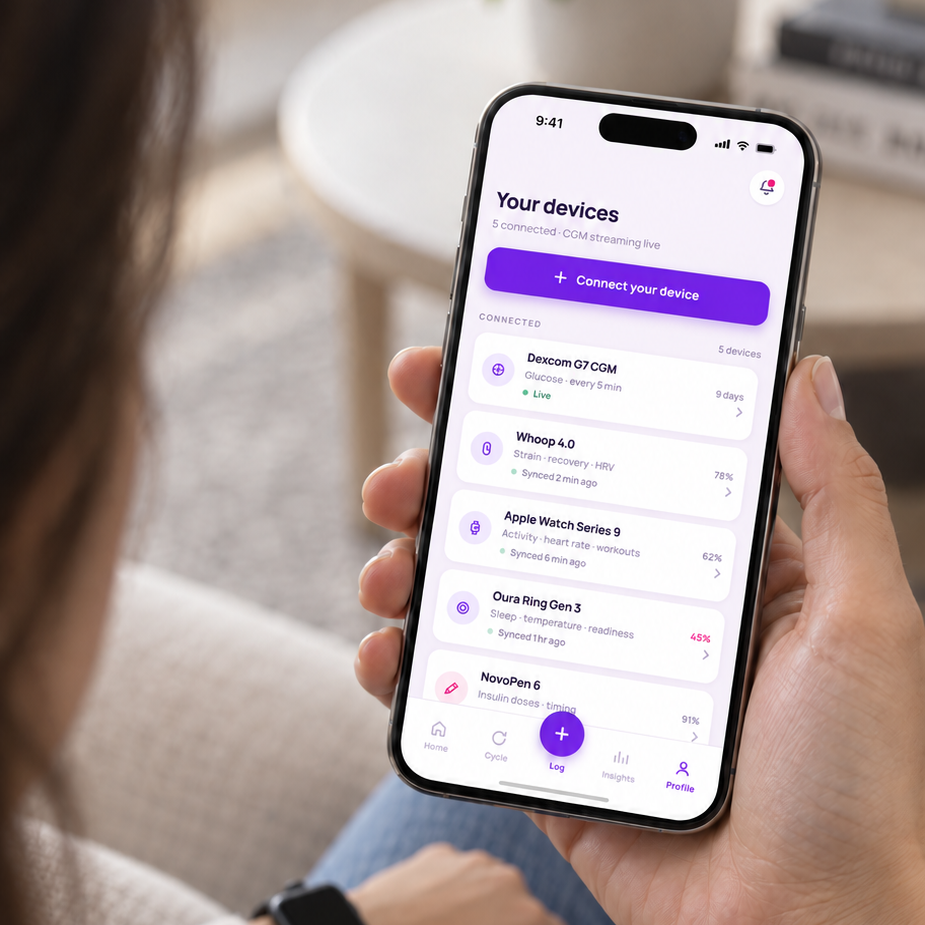
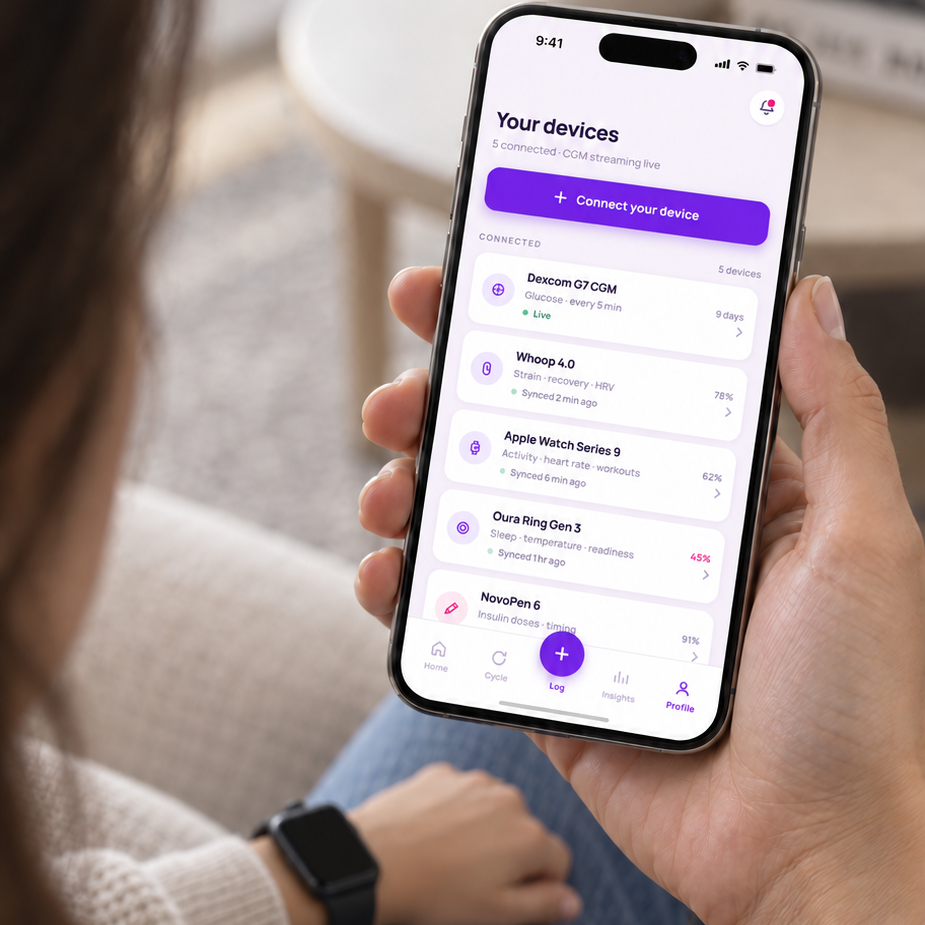
Adjust MyAlly hero crops, tighten spacing, animate phone screens
- Re-cropped the desktop square (still shows the Apple Watch on the
  wrist in the bottom corner) and shortened the mobile portrait crop
  by trimming the excess lap/leg space at the bottom (1701px -> 1240px).
- Split the hero/next-section padding so the gap before "See what
  MyAlly shows you, every day" is much tighter (was ~21vh, now ~10vh).
- Extracted the phone-mockup section into components/MyAllyScreens.tsx
  (a client component, since page.tsx exports metadata and can't itself
  be "use client") with an IntersectionObserver-driven reveal: the three
  screens alternate sliding in from the left and right as the section
  scrolls into view, on both the mobile stack and the desktop fan.

diff --git a/app/app/page.tsx b/app/app/page.tsx
@@ -1,6 +1,6 @@
 import type { Metadata } from "next";
 import Image from "next/image";
-import PhoneMockup from "@/components/PhoneMockup";
+import MyAllyScreens from "@/components/MyAllyScreens";
 
 const basePath = process.env.NEXT_PUBLIC_BASE_PATH || "";
 
@@ -10,20 +10,10 @@ export const metadata: Metadata = {
     "MyAlly brings your glucose, activity, wearables, labs, food and medications into one connected picture, so you can see how they relate and what to do next.",
 };
 
-const screens = [
-  { src: "/mockups/seer-cycle-insights.png", label: "Cycle Insights" },
-  { src: "/mockups/seer-cycle-home.png", label: "Cycle-aware home screen" },
-  { src: "/mockups/seer-todays-guidance.png", label: "Today's guidance" },
-];
-
-// Mobile stacks these in a different order than the desktop fan (which
-// features the home screen front and center): home, insights, guidance.
-const mobileScreens = [screens[1], screens[0], screens[2]];
-
 export default function MyAllyPage() {
   return (
     <main>
-      <section className="px-[8vw] pt-[18vh] pb-[9vh]">
+      <section className="px-[8vw] pt-[18vh] pb-[5vh]">
         <div className="mx-auto grid max-w-[1200px] items-center gap-14 lg:grid-cols-[1.1fr_0.9fr]">
           <div>
             <h1 className="max-w-[22ch] font-display text-[clamp(2.2rem,4.8vw,3.4rem)] font-medium leading-[1.12] tracking-[-0.01em] text-ink">
@@ -45,50 +35,26 @@ export default function MyAllyPage() {
               className="hidden h-auto w-full rounded-2xl lg:block"
               priority
             />
-            {/* Mobile: original portrait crop, stacked below the text */}
+            {/* Mobile: shortened portrait crop, stacked below the text */}
             <Image
               src={`${basePath}/app/connected-devices.png`}
               alt="MyAlly's Your devices screen, showing a Dexcom G7, Whoop, Apple Watch, Oura Ring and NovoPen all connected"
               width={925}
-              height={1701}
+              height={1240}
               className="h-auto w-full rounded-2xl lg:hidden"
             />
           </div>
         </div>
       </section>
 
-      <section className="overflow-hidden bg-paper px-[8vw] py-[12vh]">
+      <section className="overflow-hidden bg-paper px-[8vw] pt-[5vh] pb-[12vh]">
         <div className="mx-auto mb-[6vh] max-w-[560px] text-center">
           <h2 className="font-display text-[clamp(1.4rem,2.4vw,1.9rem)] font-medium leading-[1.3] tracking-[-0.01em] text-ink">
             See what MyAlly shows you, every day
           </h2>
         </div>
 
-        {/* Mobile: stacked, full-size phones — the fan below gets too narrow to render legibly */}
-        <div className="mx-auto flex max-w-[260px] flex-col items-center gap-10 md:hidden">
-          {mobileScreens.map((screen) => (
-            <PhoneMockup key={screen.src} src={screen.src} label={screen.label} className="w-full" />
-          ))}
-        </div>
-
-        {/* Tablet+: staggered fan, home screen featured front and center */}
-        <div className="relative mx-auto hidden max-w-[640px] md:block">
-          <div
-            className="pointer-events-none absolute left-1/2 top-1/2 h-[380px] w-[380px] -translate-x-1/2 -translate-y-1/2 rounded-full opacity-30 blur-[80px]"
-            style={{ background: "radial-gradient(circle, #8A52F0, transparent 70%)" }}
-          />
-          <div className="relative flex items-end justify-center">
-            <div className="relative z-0 w-[34%] -mr-8 translate-y-6 rotate-[-8deg] opacity-90">
-              <PhoneMockup src={screens[0].src} label={screens[0].label} />
-            </div>
-            <div className="relative z-10 w-[42%]">
-              <PhoneMockup src={screens[1].src} label={screens[1].label} priority />
-            </div>
-            <div className="relative z-0 w-[34%] -ml-8 translate-y-6 rotate-[8deg] opacity-90">
-              <PhoneMockup src={screens[2].src} label={screens[2].label} />
-            </div>
-          </div>
-        </div>
+        <MyAllyScreens />
       </section>
     </main>
   );

diff --git a/components/MyAllyScreens.tsx b/components/MyAllyScreens.tsx
@@ -1,0 +1,91 @@
+"use client";
+
+import { useEffect, useRef, useState } from "react";
+import PhoneMockup from "@/components/PhoneMockup";
+
+const screens = [
+  { src: "/mockups/seer-cycle-insights.png", label: "Cycle Insights" },
+  { src: "/mockups/seer-cycle-home.png", label: "Cycle-aware home screen" },
+  { src: "/mockups/seer-todays-guidance.png", label: "Today's guidance" },
+];
+
+// Mobile stacks these in a different order than the desktop fan (which
+// features the home screen front and center): home, insights, guidance.
+const mobileScreens = [screens[1], screens[0], screens[2]];
+
+// Alternating slide-in: even positions come from the left, odd from the
+// right, regardless of which screen occupies that slot.
+function slideClasses(index: number, visible: boolean) {
+  const fromLeft = index % 2 === 0;
+  if (!visible) return fromLeft ? "-translate-x-12 opacity-0" : "translate-x-12 opacity-0";
+  return "translate-x-0";
+}
+
+export default function MyAllyScreens() {
+  const ref = useRef<HTMLDivElement>(null);
+  const [visible, setVisible] = useState(false);
+
+  useEffect(() => {
+    const node = ref.current;
+    if (!node) return;
+    const observer = new IntersectionObserver(
+      ([entry]) => {
+        if (entry.isIntersecting) {
+          setVisible(true);
+          observer.disconnect();
+        }
+      },
+      { threshold: 0.2 }
+    );
+    observer.observe(node);
+    return () => observer.disconnect();
+  }, []);
+
+  return (
+    <div ref={ref}>
+      {/* Mobile: stacked, full-size phones — the fan below gets too narrow to render legibly */}
+      <div className="mx-auto flex max-w-[260px] flex-col items-center gap-10 md:hidden">
+        {mobileScreens.map((screen, i) => (
+          <div
+            key={screen.src}
+            className={`w-full transition-all duration-700 ease-out ${slideClasses(i, visible)}`}
+            style={{ transitionDelay: visible ? `${i * 0.15}s` : "0s" }}
+          >
+            <PhoneMockup src={screen.src} label={screen.label} className="w-full" />
+          </div>
+        ))}
+      </div>
+
+      {/* Tablet+: staggered fan, home screen featured front and center */}
+      <div className="relative mx-auto hidden max-w-[640px] md:block">
+        <div
+          className="pointer-events-none absolute left-1/2 top-1/2 h-[380px] w-[380px] -translate-x-1/2 -translate-y-1/2 rounded-full opacity-30 blur-[80px]"
+          style={{ background: "radial-gradient(circle, #8A52F0, transparent 70%)" }}
+        />
+        <div className="relative flex items-end justify-center">
+          <div
+            className={`relative z-0 w-[34%] -mr-8 translate-y-6 rotate-[-8deg] transition-all duration-700 ease-out ${
+              visible ? "translate-x-0 opacity-90" : slideClasses(0, visible)
+            }`}
+          >
+            <PhoneMockup src={screens[0].src} label={screens[0].label} />
+          </div>
+          <div
+            className={`relative z-10 w-[42%] transition-all duration-700 ease-out ${slideClasses(1, visible)}`}
+            style={{ transitionDelay: visible ? "0.15s" : "0s" }}
+          >
+            <PhoneMockup src={screens[1].src} label={screens[1].label} priority />
+          </div>
+          <div
+            className={`relative z-0 w-[34%] -ml-8 translate-y-6 rotate-[8deg] transition-all duration-700 ease-out ${
+              visible ? "translate-x-0 opacity-90" : slideClasses(2, visible)
+            }`}
+            style={{ transitionDelay: visible ? "0.3s" : "0s" }}
+          >
+            <PhoneMockup src={screens[2].src} label={screens[2].label} />
+          </div>
+        </div>
+      </div>
+    </div>
+  );
+}
